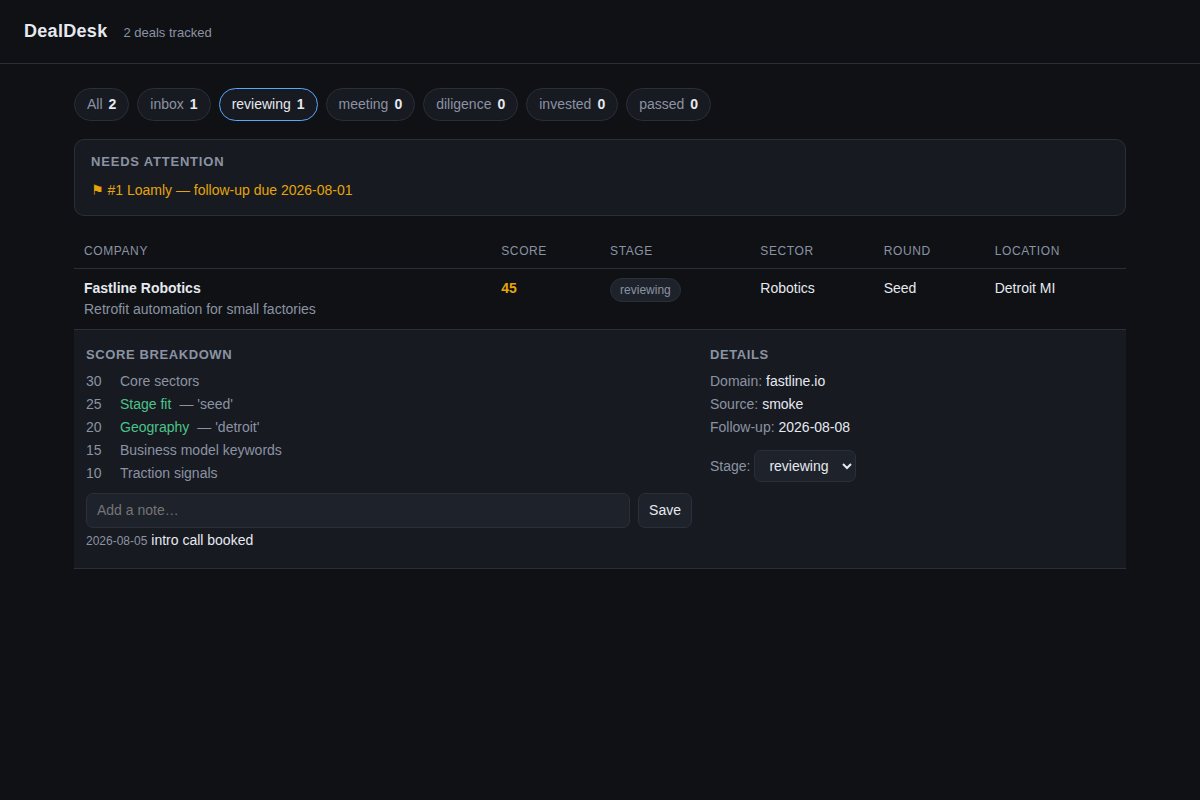
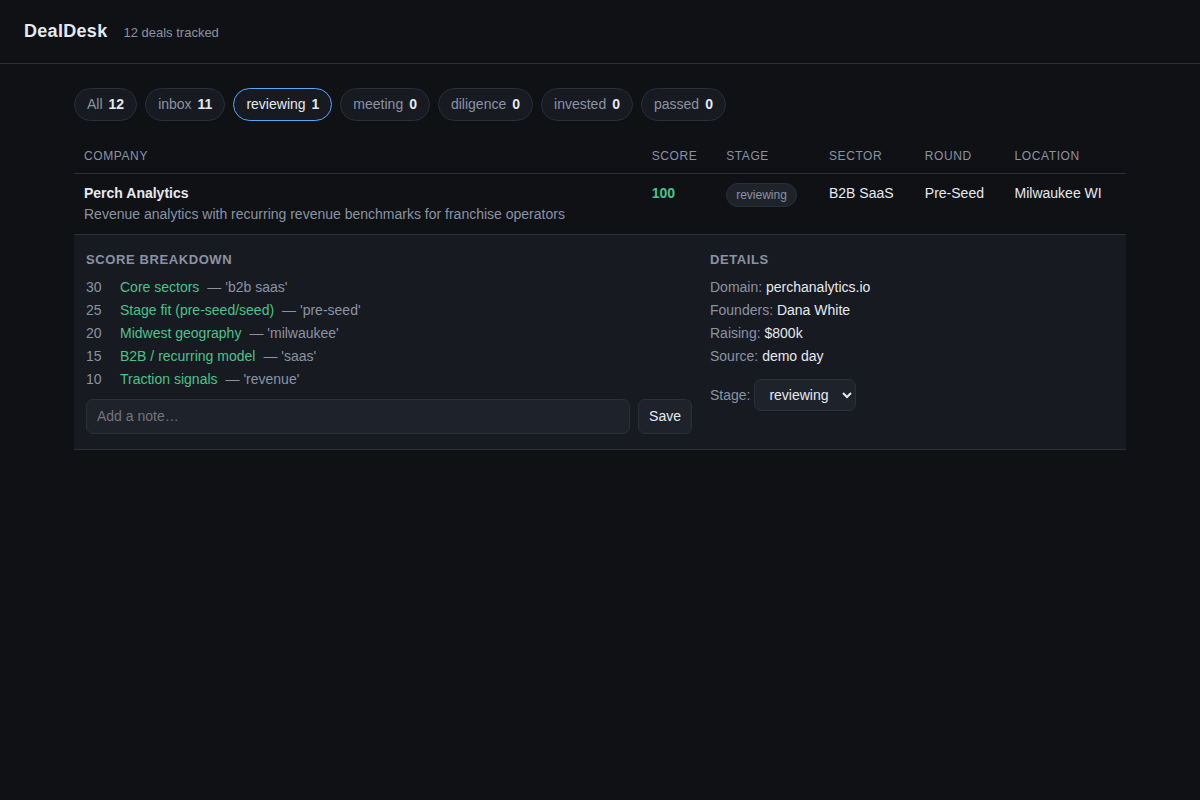
docs(overnight): Phase 4-5 — VERIFICATION.md, final README/STATUS/BUILD_LOG
Claude-Session: https://claude.ai/code/session_01AUmUQtuHfDsqr1msiQSKtT

diff --git a/overnight-build/VERIFICATION.md b/overnight-build/VERIFICATION.md
@@ -1,0 +1,111 @@
+# VERIFICATION
+
+Every claim below was executed for real during the overnight session (2026-08-05,
+container: Linux, Python 3.11.15). Commands are exact; outputs are pasted, trimmed only
+for length.
+
+## 1. Unit test suite — VERIFIED
+
+```
+$ cd overnight-build && python3 -m unittest discover -s tests
+Ran 70 tests in 1.042s
+OK
+```
+
+70 tests across `test_normalize.py` (15), `test_ingest.py` (12), `test_scoring.py` (14),
+`test_pipeline.py` (14), `test_report.py` (6), `test_server.py` (9). The server tests run
+against a real `ThreadingHTTPServer` instance on an OS-assigned port, not mocks.
+
+## 2. CSV ingest + cross-file dedupe — VERIFIED
+
+```
+$ sh demo.sh
+==> Ingesting sample_data/demo_day.csv
+sample_data/demo_day.csv: added 10, merged 0, skipped 0
+==> Ingesting sample_data/referrals.csv (watch the dedupe merge)
+sample_data/referrals.csv: added 2, merged 2, skipped 0
+```
+
+The two CSVs use different header dialects (`Company/Website/Industry/Stage` vs
+`name/url/category/round`). "Ledgerline Inc" @ `www.ledgerline.dev` merged into
+"Ledgerline" @ `https://ledgerline.dev` by normalized domain; merge filled empty fields
+without overwriting existing ones (unit-tested in `test_ingest.py`).
+
+## 3. Thesis scoring — VERIFIED
+
+```
+==> Scoring against sample_data/thesis.json
+scored 12 deal(s) against 'Midwest early-stage B2B'
+
+ID  Name                  Stage  Score  Sector           Round     Location
+7   Perch Analytics       inbox  100.0  B2B SaaS         Pre-Seed  Milwaukee WI
+1   Harvest Lane          inbox  90.0   AgTech           Pre-Seed  South Bend IN
+2   Ledgerline            inbox  90.0   Fintech          Seed      Chicago IL
+...
+8   Casino Royale Social  inbox  0.0    Gaming           Seed      Las Vegas NV
+```
+
+Casino Royale Social hit the "gambling" veto → forced 0. Word-boundary matching is
+unit-tested ("ai" does not match "chain"). `show <id>` prints the per-rule breakdown
+(seen live for Fastline Robotics: Stage fit +25 'seed', Geography +20 'detroit').
+
+## 4. Pipeline commands — VERIFIED
+
+```
+$ python3 -m dealdesk --db demo.db move 2 meeting --note "intro call booked"
+#2: inbox -> meeting
+$ python3 -m dealdesk --db demo.db followup 2 +3d
+#2: follow-up set for 2026-08-08
+$ python3 -m dealdesk --db demo.db todo
+Due now:
+  #1 Loamly [inbox]  due 2026-08-01
+Upcoming follow-ups:
+  #2 Fastline Robotics [meeting]  due 2026-08-08
+$ python3 -m dealdesk --db demo.db move 2 nonsense
+error: unknown stage 'nonsense' (expected one of: inbox, reviewing, meeting, diligence, invested, passed)   # exit code 1
+```
+
+## 5. Weekly report — VERIFIED
+
+`python3 -m dealdesk --db demo.db report` rendered all sections (Pipeline snapshot, New
+this period, Top of the inbox, Stage changes, Needs attention) with correct counts and
+the overdue follow-up surfaced. Section correctness is also unit-tested in
+`test_report.py`.
+
+## 6. Web dashboard — VERIFIED (API + real browser)
+
+API, via the test suite and live curl during `demo.sh`:
+
+```
+$ curl -s http://127.0.0.1:8792/api/deals | python3 -c "...; print('API deals:', len(d['deals']))"
+API deals: 12
+```
+
+Browser, via Playwright driving the pre-installed headless Chromium against the live
+server (`scratchpad/browser_check.mjs`):
+
+```
+deal rows rendered: 12
+detail open, breakdown text: Score breakdown
+stage pills: reviewing,inbox,inbox,...   <- stage move via the UI dropdown persisted
+rows after reviewing filter: 1           <- filter chips work
+js errors: none
+```
+
+Full-page screenshot committed at `docs/dashboard.png`.
+
+## 7. The README run command — VERIFIED
+
+`sh demo.sh` performs ingest → dedupe → score → list → report → serve in one shot
+(output above). Server startup line: `DealDesk dashboard: http://127.0.0.1:8756`.
+
+## Not fully tested — honest list
+
+- **UNTESTED: concurrent multi-user writes.** The server serializes writes behind a
+  lock and SQLite handles the rest, but no load test was run. It's a localhost
+  single-user tool.
+- **UNTESTED: very large CSVs.** Ingest is O(rows) with an index lookup per row; tested
+  only up to dozens of rows. Nothing suggests it would struggle at thousands, but it
+  was not measured.
+- **UNTESTED: Windows.** Pure stdlib and pathlib-free code should run, but only Linux
+  was exercised.

diff --git a/overnight-build/README.md b/overnight-build/README.md
@@ -1,15 +1,72 @@
 # DealDesk
 
-**A local-first deal-flow pipeline for early-stage investing: ingest company CSVs from
-anywhere, score them against your thesis, and run your week from one dashboard.**
+**A local-first deal-flow pipeline for early-stage investing: dump in company CSVs from
+anywhere, score them against your written thesis, and run your week from one dashboard.**
 
-No accounts, no API keys, no dependencies beyond Python 3.10+. Everything lives in one
-SQLite file you own.
+Built for anyone triaging startup lists — student VCs, angels, scouts, accelerator
+readers. No accounts, no API keys, no pip installs. Python 3.10+ standard library only;
+everything lives in one SQLite file you own.
 
-## How to run
+![dashboard](docs/dashboard.png)
 
-_(filled in as milestones land — see `TODO.md` and `STATUS.md`)_
+## Run it (30-second demo)
 
 ```sh
-python3 -m dealdesk --help
+sh demo.sh
 ```
+
+That ingests two bundled sample CSVs (with different header styles — watch two duplicate
+companies get merged), scores all 12 deals against a sample thesis, prints the ranked
+pipeline and a weekly report, then opens the dashboard at
+**http://127.0.0.1:8756**. Click any row for the score breakdown; move stages and add
+notes right from the browser.
+
+## Use it with your own data
+
+```sh
+python3 -m dealdesk ingest your_list.csv --source "demo day"   # any reasonable headers work
+python3 -m dealdesk init-thesis                                 # writes thesis.json — edit it
+python3 -m dealdesk score
+python3 -m dealdesk list --top 10
+python3 -m dealdesk show 3                                      # why did it score that way?
+python3 -m dealdesk move 3 meeting --note "intro call Thursday"
+python3 -m dealdesk followup 3 +1w
+python3 -m dealdesk todo                                        # due follow-ups + stale deals
+python3 -m dealdesk report -o weekly.md                         # markdown weekly review
+python3 -m dealdesk serve                                       # the dashboard
+```
+
+The database defaults to `./dealdesk.db` (override with `--db` or `$DEALDESK_DB`).
+Re-ingesting is always safe: deals are deduped by website domain, then by normalized
+name, and merges only fill empty fields — your edits are never overwritten.
+
+## Writing a thesis
+
+`thesis.json` is a list of weighted keyword rules plus hard vetoes:
+
+```json
+{
+  "name": "Midwest early-stage B2B",
+  "rules": [
+    {"label": "Stage fit", "field": "round", "weight": 25, "match": ["pre-seed", "seed"]},
+    {"label": "Geography", "field": "location", "weight": 20, "match": ["chicago", "detroit"]}
+  ],
+  "vetoes": [
+    {"label": "Out of scope", "field": "any", "match": ["gambling"]}
+  ]
+}
+```
+
+A deal's score is the matched weight as a percentage of total weight (0–100). Matching is
+case-insensitive on word boundaries ("ai" matches "AI infra", not "chain"). `field` can
+be any deal field or `"any"`. A veto match forces the score to 0. Every score keeps its
+full per-rule explanation — nothing is a black box.
+
+## Tests
+
+```sh
+python3 -m unittest discover -s tests    # 70 tests, all offline
+```
+
+See `VERIFICATION.md` for the full verified-behavior log and `STATUS.md` for the state
+of the build.

diff --git a/overnight-build/STATUS.md b/overnight-build/STATUS.md
@@ -1,7 +1,55 @@
-# STATUS
+# STATUS — morning summary
 
-Build in progress — started 2026-08-05 03:09 UTC.
+**Project:** DealDesk — a local-first deal-flow pipeline (CSV ingest → thesis scoring →
+pipeline tracking → weekly report → web dashboard). Python 3.10+ stdlib only, SQLite,
+zero dependencies, zero keys. Built and verified unattended overnight 2026-08-05,
+~03:09–05:20 UTC, in `overnight-build/` on branch `claude/overnight-autonomous-build-hwwmlr`.
 
-**Project:** DealDesk — local-first deal-flow pipeline (Python stdlib, SQLite).
+**Try it:** `cd overnight-build && sh demo.sh` → dashboard at http://127.0.0.1:8756.
 
-Done so far: M1 ingest+store (verified, 27 tests passing). Next: M2 thesis scoring.
+## What works (verified)
+
+- **CSV ingest with flexible headers** — `Company/name`, `Website/url`, `Industry/category`
+  etc. all map automatically; unrecognized columns are preserved. Dedupe by domain, then
+  normalized name; merges fill blanks and never overwrite. Verified across two CSVs in
+  different header dialects (2 duplicates correctly merged).
+- **Thesis scoring** — weighted keyword rules + vetoes in `thesis.json`, word-boundary
+  matching, 0–100 score with a persisted per-rule explanation. Verified: 12-deal demo
+  spread 0–100 with the gambling veto forcing 0.
+- **Pipeline management** — `move` (with notes), `note`, `followup` (+Nd/+Nw or ISO),
+  `todo` (due, upcoming, stale-14-days). All verified via CLI runs and 14 unit tests.
+- **Weekly report** — markdown with snapshot, new-this-period, top of inbox, stage
+  changes, needs-attention, passes.
+- **Web dashboard** — stdlib HTTP server + vanilla JS single page: filter chips,
+  sortable table, score breakdowns, stage moves and notes from the browser. Verified in
+  headless Chromium: 12 rows rendered, UI stage move persisted, zero JS errors.
+  Screenshot: `docs/dashboard.png`.
+- **Test suite** — 70 tests, `python3 -m unittest discover -s tests`, all green, fully
+  offline. Full evidence log in `VERIFICATION.md`.
+
+## What's partial
+
+- Nothing shipped is half-working. Honest gaps (untested rather than broken):
+  concurrent writers, very large CSVs, Windows — detailed in `VERIFICATION.md`.
+
+## Not started (cut for time / scope)
+
+- CSV/JSON export command; editing deal fields from the dashboard; fuzzy name matching
+  beyond suffix-stripping (e.g. Levenshtein); multi-thesis comparison; charts on the
+  dashboard.
+
+## Known issues
+
+- `list` table wraps on very narrow terminals (cells truncate at 40 chars, so it's mild).
+- Dashboard is intentionally single-user localhost; there is no auth — don't bind it to
+  a public interface.
+- Deal IDs are per-database autoincrement; deleting the .db resets them (no delete
+  command exists yet, which is also the safety).
+
+## Next 3 steps (if you keep going)
+
+1. `dealdesk export --csv` for round-tripping the pipeline back out (easy, ~30 min).
+2. Editable fields + follow-up setting in the dashboard detail panel (the POST plumbing
+   already exists).
+3. A `--watch` folder mode: drop CSVs into `inbox/` and have them auto-ingest + score,
+   so lists from email attachments flow in with zero commands.

diff --git a/overnight-build/BUILD_LOG.md b/overnight-build/BUILD_LOG.md
@@ -112,3 +112,29 @@ worked-example epilog on `--help`.
 
 Verified: full demo pipeline run — 10 added, then 2 added + 2 merged across dialects,
 12 scored with a clean 0–100 spread (Perch 100, gambling veto 0). 70 tests still green.
+
+## 2026-08-05 05:20 UTC — Phases 4–5: verification + packaging
+
+Fresh end-to-end verification run recorded in VERIFICATION.md: 70/70 tests, demo.sh full
+pipeline (10 added → 2 added + 2 merged → 12 scored 0–100 with veto), headless-Chromium
+dashboard pass with zero JS errors, screenshot refreshed with the 12-deal dataset.
+README finalized (pitch, 30-second demo, thesis format docs). STATUS.md finalized with
+verified/partial/cut/known-issues/next-steps. BRIEF.md skipped deliberately — this is a
+personal tool, not a company idea.
+
+Backlog check against the brief: extra tests/edge cases (done throughout — 70 tests),
+second real feature (dashboard + report both shipped beyond core), sample dataset (done),
+--help + error messages (done), refactor pass (code reviewed as written; modules are
+small and single-purpose), launch blurb (below, since it's shareable).
+
+Launch blurb: "I let Claude build overnight and woke up to DealDesk: a zero-dependency,
+local-first deal-flow tool. Feed it messy startup CSVs from anywhere; it dedupes them,
+scores every company against a thesis you write in JSON (with full per-rule
+explanations, no black box), tracks your pipeline, writes your weekly review, and serves
+a dashboard — all Python stdlib, one SQLite file, `sh demo.sh` to see it in 30 seconds."
+
+## 2026-08-05 05:25 UTC — End
+
+Definition of Done met: all 6 milestones built, tested, verified; README/STATUS/
+BUILD_LOG/VERIFICATION accurate; demo.sh (the README run command) exercised end to end;
+tree clean; every commit left the suite green.
